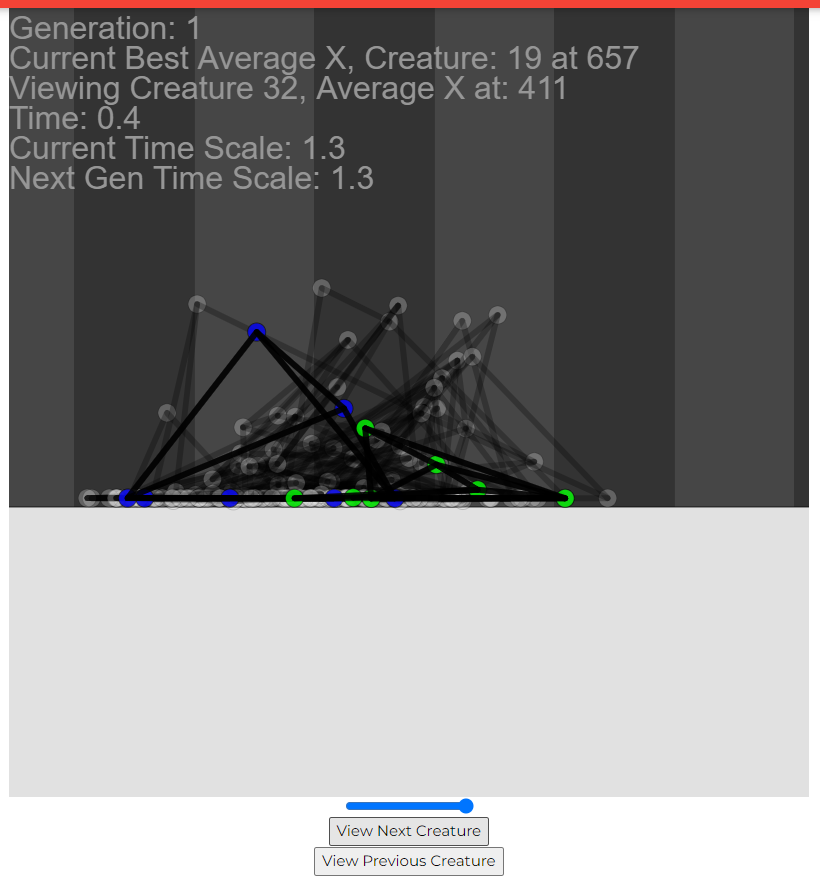
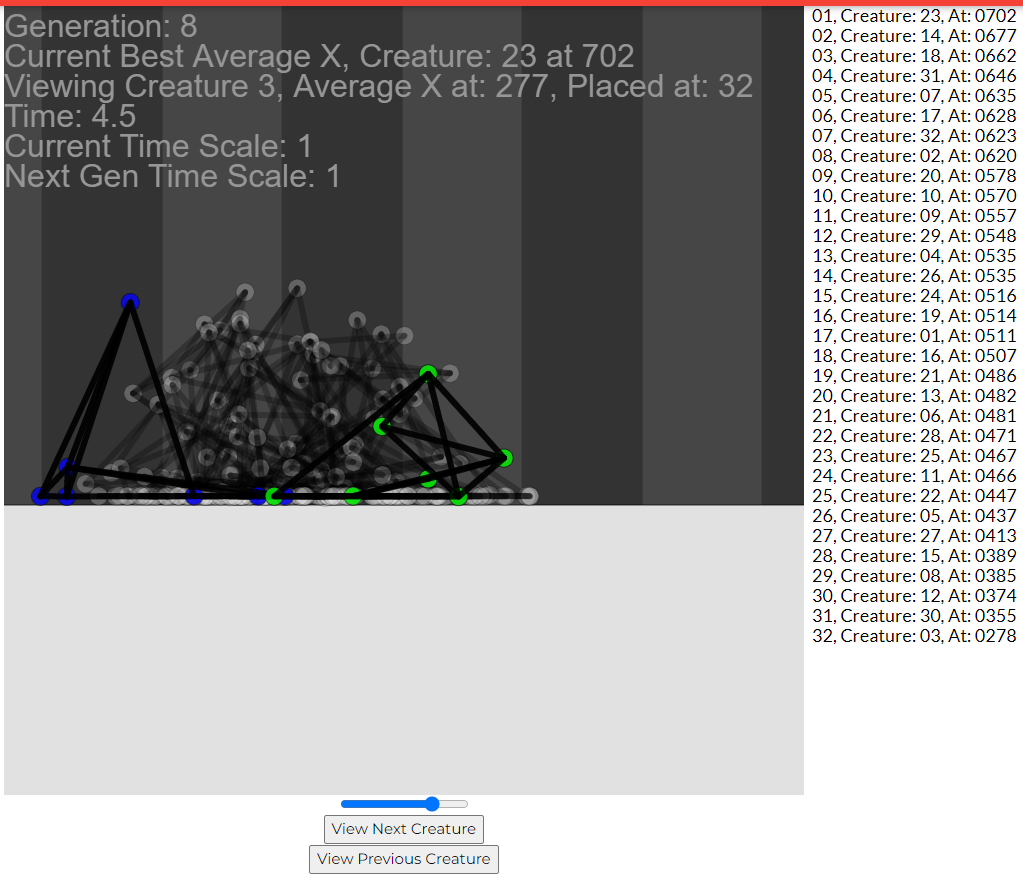
GitBook: [#122] No subject

diff --git a/design-and-development/cycle-1-15.md b/design-and-development/cycle-1-15.md
@@ -2,10 +2,7 @@
 
 ## Overview
 
-redid best x / peak y code to have an array of all\
-added a leader board\
-blue select done in place order\
-reintroduced keeping of best creature from last gen to stop devolution
+In this final cycle I will add a leader board to allow the user to see the position of all the creatures at once and change the blue select to show the creatures in this order.
 
 ## Design
 
@@ -150,12 +147,14 @@ The main challenge with this cycle was making sure I dint break anything whilst 
 
 ### Tests
 
-| Test | Instructions                                                                  | What I expect                                                        | What actually happens                                                             | Pass/Fail                                    |
-| ---- | ----------------------------------------------------------------------------- | -------------------------------------------------------------------- | --------------------------------------------------------------------------------- | -------------------------------------------- |
-| 1    | Observe the leader board and compare it to the best x on the canvas.          | The top of the leader board and best x on the canvas to be the same. | As expected.                                                                      | Pass.                                        |
-| 2    | Cycle through the creatures and check the order compared to the leader board. | The selection to move down the places in the leader board.           | As expected.                                                                      | Pass.                                        |
-| 3    | Resize the page to check the leader board texts position                      | The text to stay anchored to the right of the canvas.                | As expected, but the text line breaks with a small window and becomes unreadable. | <p>Pass. <br>(with<br>a bit <br>of fail)</p> |
-| 4    |                                                                               |                                                                      | As expected.                                                                      | Pass.                                        |
+| Test | Instructions                                                                  | What I expect                                                        | What actually happens                                                                                | Pass/Fail |
+| ---- | ----------------------------------------------------------------------------- | -------------------------------------------------------------------- | ---------------------------------------------------------------------------------------------------- | --------- |
+| 1    | Observe the leader board and compare it to the best x on the canvas.          | The top of the leader board and best x on the canvas to be the same. | As expected.                                                                                         | Pass.     |
+| 2    | Cycle through the creatures and check the order compared to the leader board. | The selection to move down the places in the leader board.           | As expected.                                                                                         | Pass.     |
+| 3    | Resize the page to check the leader board texts position                      | The text to stay anchored to the right of the canvas.                | As expected, but the text line breaks with a small window and becomes unreadable (a very edge case). | Pass.     |
 
 ### Evidence
 
+<figure><img src="../.gitbook/assets/image.png" alt=""><figcaption><p>Leader board working, showing each creatures place and average X in descending order.</p></figcaption></figure>
+
+<figure><img src="../.gitbook/assets/image (3).png" alt=""><figcaption><p>Peak Y leader board working alongside separate peak Y line for selected creature.</p></figcaption></figure>

diff --git a/design-and-development/cycle-1-14.md b/design-and-development/cycle-1-14.md
@@ -17,6 +17,16 @@ Within this cycle I want to focus on user interaction within the simulation by i
 * [x] Make neural network muscle movement speed match the time control
 * [x] Make the timer slow down / speed up to match the time control
 
+### Usability Features
+
+| Variable Name          | Use                                                                                      |
+| ---------------------- | ---------------------------------------------------------------------------------------- |
+| creatureSelectedID     | The current creature that the user is viewing, used to render that creature differently. |
+| nextCreatureButton     | The button that allows the user to cycle forward through the creatures.                  |
+| previousCreatureButton | The button that allows the user to cycle backward through the creatures.                 |
+| currentTimeScale       | The current time scaling for the simulation.                                             |
+| timeScaleSlider        | The slider that allows the user to change the time scale of the simulation.              |
+
 ### Pseudocode
 
 <pre class="language-javascript"><code class="lang-javascript"><strong>let selectedCreature = 0;
@@ -34,7 +44,8 @@ end if
     
 //after the main draw for all the other creatures
 drawCol = blue;
-creatureContainer[selectedCreature].draw();</code></pre>
+creatureContainer[selectedCreature].draw();
+</code></pre>
 
 ```javascript
 let slider = createSlider(1, 5); //1x speed to 5x speed
@@ -63,14 +74,14 @@ This task was relatively easy due to the creature object already having ID's fro
   
   nextCreatureButton.center('horizontal');
   nextCreatureButton.position(nextCreatureButton.position().x,
-    nextCreatureButton.position().y + 20);
+  nextCreatureButton.position().y + 20);
   
   previousCreatureButton = createButton('View Previous Creature');
   previousCreatureButton.mousePressed(previousCreatureButtonDown);
   
   previousCreatureButton.center('horizontal');
   previousCreatureButton.position(previousCreatureButton.position().x,
-    previousCreatureButton.position().y + 50);
+  previousCreatureButton.position().y + 50);
     //...//
 }
 
@@ -97,7 +108,8 @@ function nextCreatureButtonDown() {
   else{
     creatureSelectedID++;
   }
-}</code></pre>
+}
+</code></pre>
 
 <figure><img src="../.gitbook/assets/image (6) (4).png" alt=""><figcaption><p>The buttons cycle through and the creature in blue is the one selected.</p></figcaption></figure>
 
@@ -245,8 +257,8 @@ Due to test 4's fail, I made the time scale only update at the start of a genera
 
 ### Evidence
 
-<figure><img src="../.gitbook/assets/image.png" alt=""><figcaption><p>1.3x time scale working with a 1st and separate selected creature</p></figcaption></figure>
+<figure><img src="../.gitbook/assets/image (21).png" alt=""><figcaption><p>1.3x time scale working with a 1st and separate selected creature</p></figcaption></figure>
 
 <figure><img src="../.gitbook/assets/image (1).png" alt=""><figcaption><p>No issues with 1st and selected being the same.</p></figcaption></figure>
 
-<figure><img src="../.gitbook/assets/image (3).png" alt=""><figcaption><p>0.1x time scale working and alternative text for "jump".</p></figcaption></figure>
+<figure><img src="../.gitbook/assets/image (3) (5).png" alt=""><figcaption><p>0.1x time scale working and alternative text for "jump".</p></figcaption></figure>

diff --git a/3-testing/3.3-checking-development-tests.md b/3-testing/3.3-checking-development-tests.md
@@ -277,6 +277,16 @@
 
 <figure><img src="https://files.gitbook.com/v0/b/gitbook-x-prod.appspot.com/o/spaces%2F3NfvkbL0OL7D7fTLEdW7%2Fuploads%2F44H1TWHVgWNZV2Icn8X3%2Fimage.png?alt=media&#x26;token=80ee663b-d234-43e6-b6f3-13d15cc0edcd" alt=""><figcaption><p>0.1x time scale working and alternative text for "jump".</p></figcaption></figure>
 
+## Cycle 16
+
+### Tests
+
+
+
+### Evidence
+
+
+
 ## Post cycle
 
 \*video of project\*
